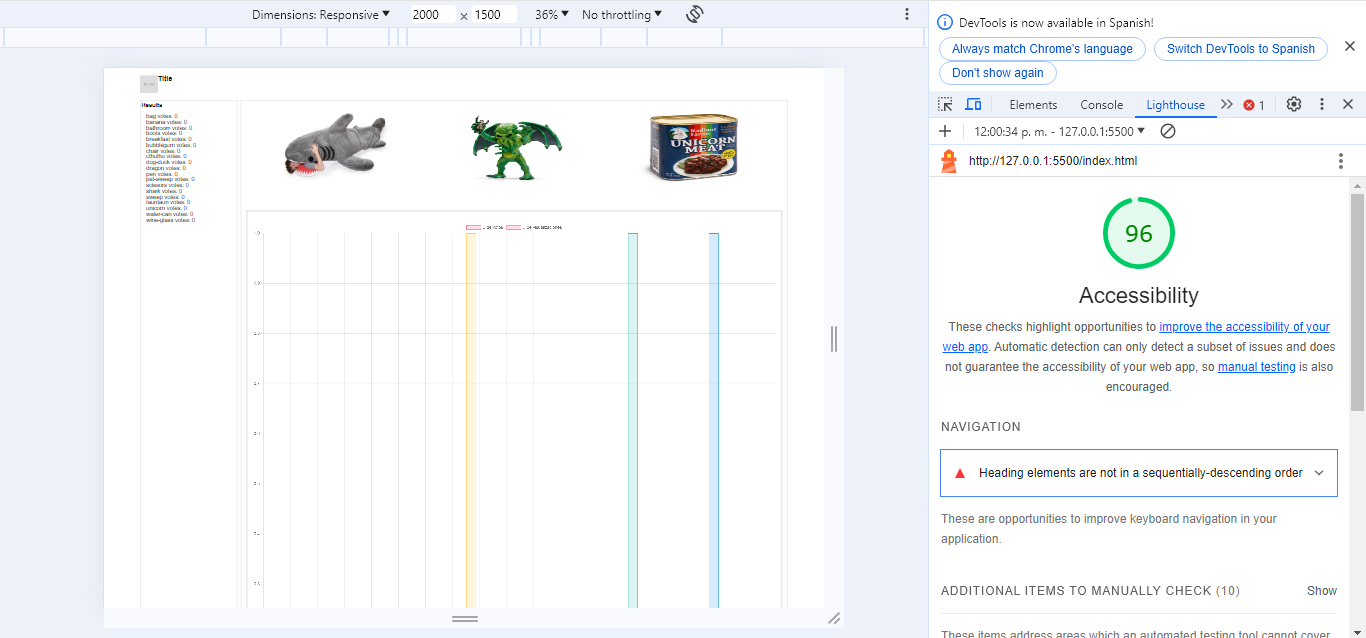
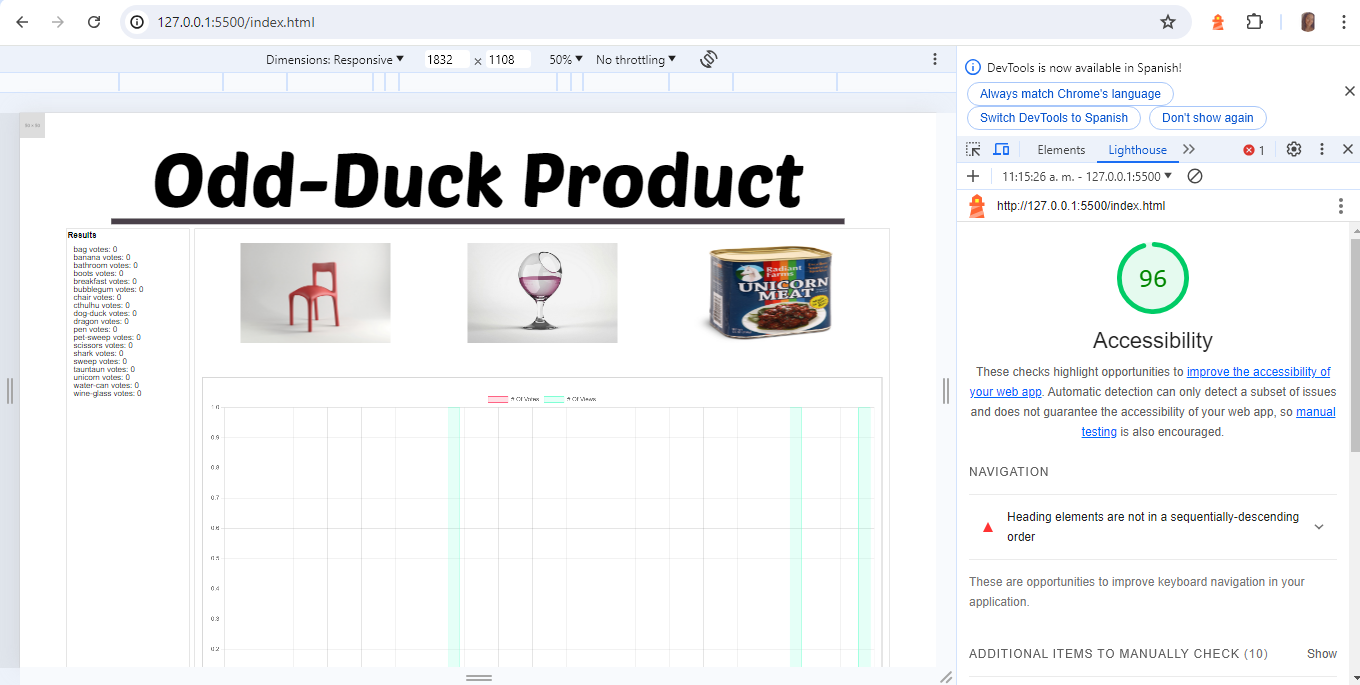
Laboratorio 12

diff --git a/js/app.js b/js/app.js
@@ -84,7 +84,7 @@ function handleClick() {
       state.totalProducts[index].renderVotes();
       objRender();
       clean();
-      
+      renderChart();
       }
     });
   } 
@@ -107,29 +107,21 @@ function renderChart(){
           labels:productNames,
           datasets:[
               {
-                  label: '# de votos',
+                  label: '# Of Votes',
                   data:selectedProducts,
                   backgroundColor:[
                       'rgba(255, 99, 132, 0.2)',
-                      'rgba(54, 162, 235, 0.2)',
-                      'rgba(255, 206, 86, 0.2)',
-                      'rgba(75, 192, 192, 0.2)',
-                      'rgba(153, 102, 255, 0.2)',
                   ],
                   borderColor:['rgba(255, 99, 132, 1)',
-                              'rgba(54, 162, 235, 1)',
-                              'rgba(255, 206, 86, 1)',
-                              'rgba(75, 192, 192, 1)',
-                              'rgba(153, 102, 255, 1)',
                           ],
                   borderWidth:1
               },
               {
-                  label:'# de visualizaciones',
+                  label:'# Of Views',
                   data:productViews,
                   backgroundColor:[
-                      'rgba(255, 99, 132, 0.2)'],
-                  borderColor:['rgba(255, 99, 132, 1)'],
+                      'rgba(127, 255, 212, 0.2)',],
+                  borderColor:['rgba(127, 255, 212, 1)',],
                   borderWidth:1
               },
           ],

diff --git a/css/style.css b/css/style.css
@@ -37,6 +37,7 @@ main{
 }
 h3{
     font-weight: bold;
+    font-size: larger;
 }
 ul{
     padding: 5% 0 0 5%;
@@ -53,8 +54,15 @@ div{
     display: flex;
     justify-content: space-around;
 }
-footer{
-    display: flex;
-    justify-content: space-around;
-    margin: 50px;
-}
+footer {
+    background-color: #bcbcbc;
+    text-align: center;
+    margin-top: 40px;
+    font-size: 20px;
+  }
+  
+  footer > p {
+    color: rgb(36, 37, 34);
+    padding: 60px;
+    font-family: Times, sans-serif;
+  }

diff --git a/index.html b/index.html
@@ -56,7 +56,7 @@
             </section>
         </main>
         <footer>
-            footer
+            <p>footer</p>
         </footer>
         <script src="https://cdn.jsdelivr.net/npm/chart.js"></script>
         <script src="./js/app.js"></script>

diff --git a/README.md b/README.md
@@ -22,7 +22,11 @@ Esta es una página web donde se podrá votar por 1 de 3 productos mostrados, do
 
 + Punción lab 11:
 
-<img alt="Lab11" src="/img/Lab11.PNG">
+<img alt="Lab11" src="/img/Lab11.png">
+
++ Punción lab 12:
+
+<img alt="Lab12" src="/img/Lab12.PNG">
 
 ### Licencia 
 
